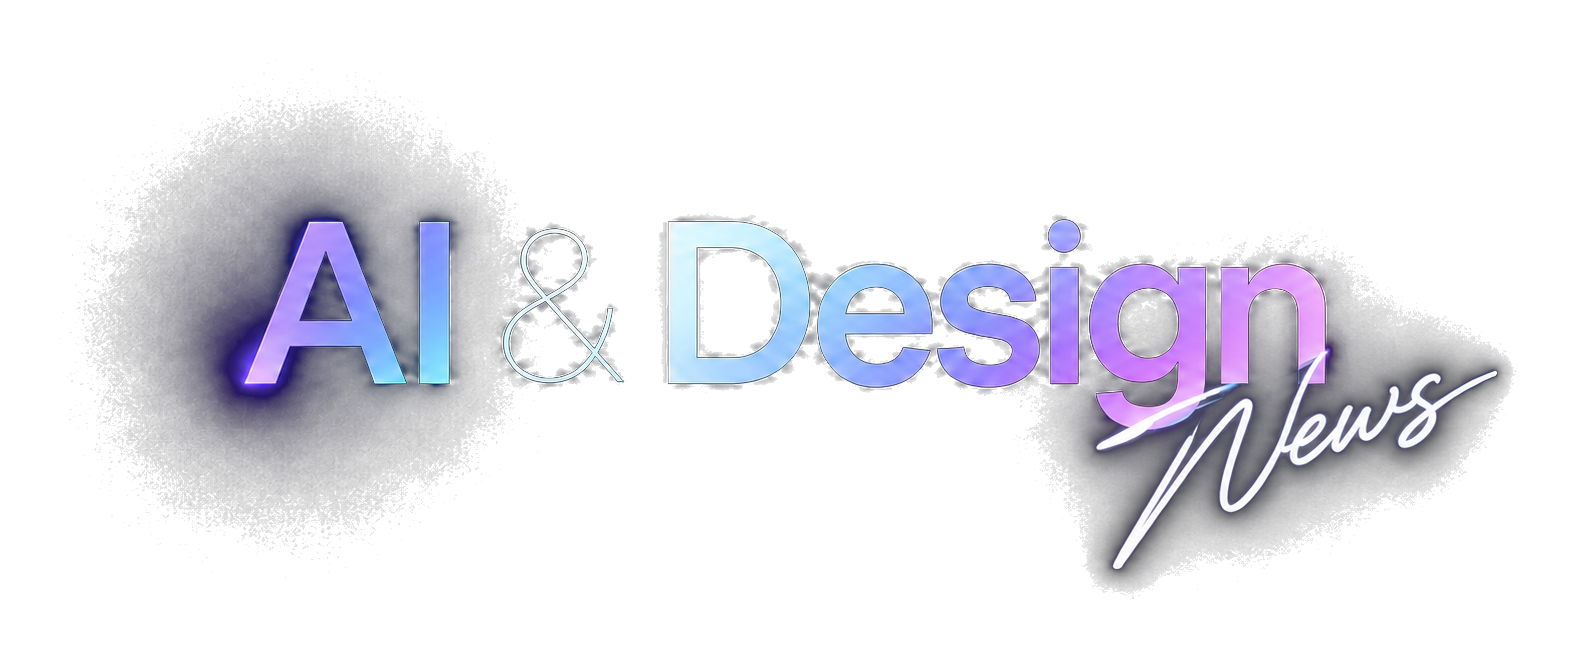
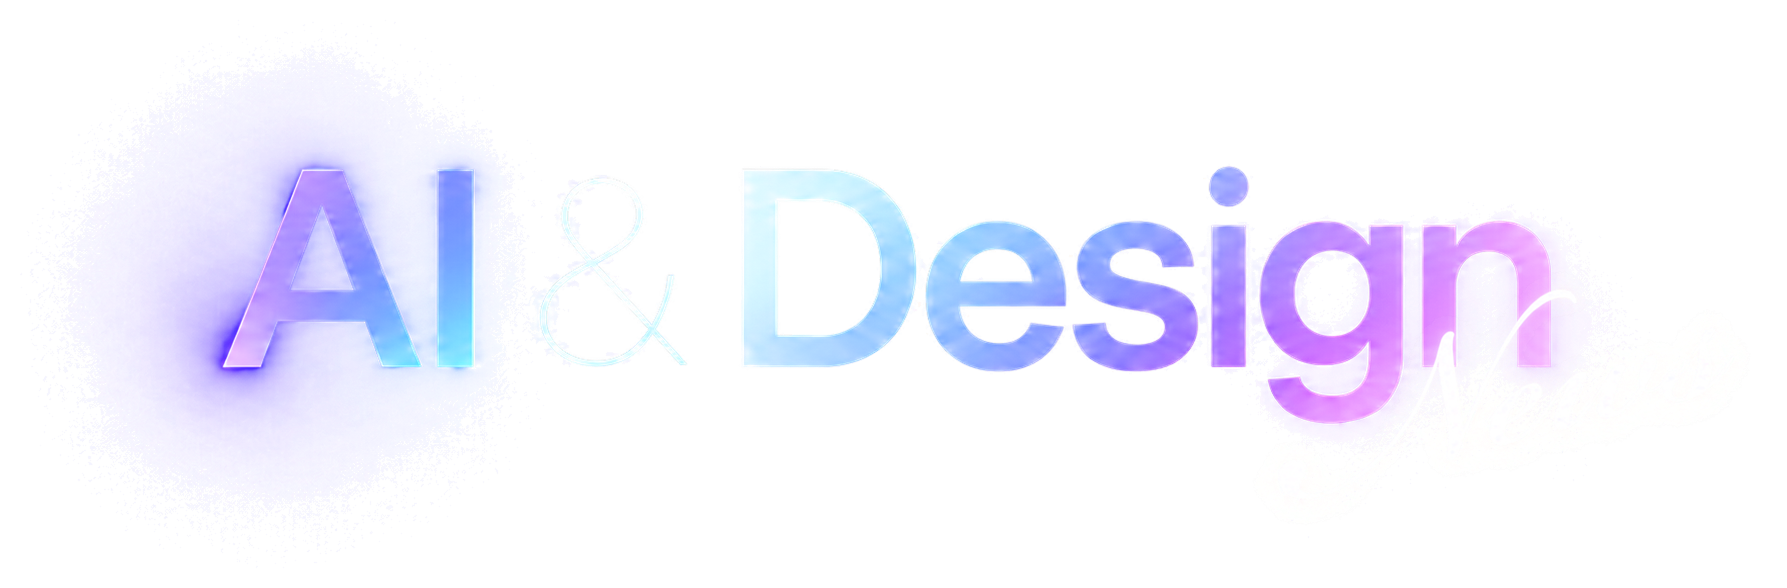
update: 로고 교체 + 아카이브 셰브론 반전 + 문서 반영

Changed region(s): [[0.0621, 0.1531, 0.9626, 0.9184]]

diff --git a/archive.html b/archive.html
@@ -111,9 +111,9 @@
     transition: transform .2s ease;
     line-height: 1;
     display: inline-block;
-    transform: scaleY(0.8);            /* 세로만 살짝 눌러 납작하게 */
+    transform: scaleY(0.8) rotate(180deg); /* 펼침(기본) → ▲ (2026-07-06 방향 반전, 브리핑과 동일) */
   }
-  .month-group.collapsed .month-chevron { transform: scaleY(0.8) rotate(180deg); }
+  .month-group.collapsed .month-chevron { transform: scaleY(0.8); } /* 접힘 → ▼ */
 
   .month-items {
     display: flex;